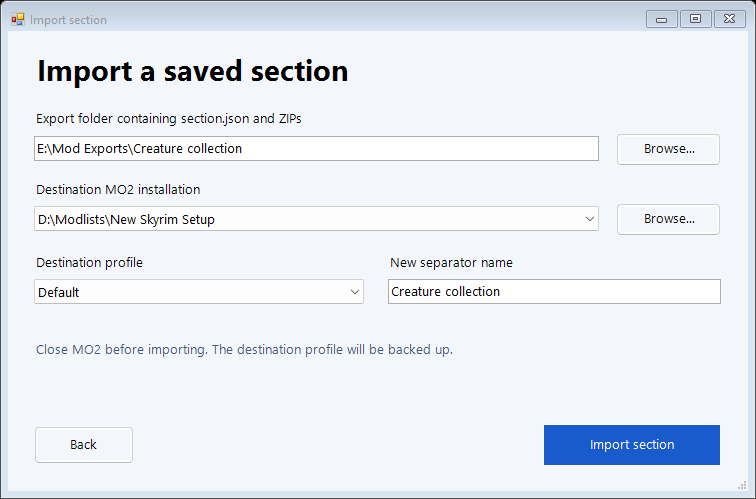
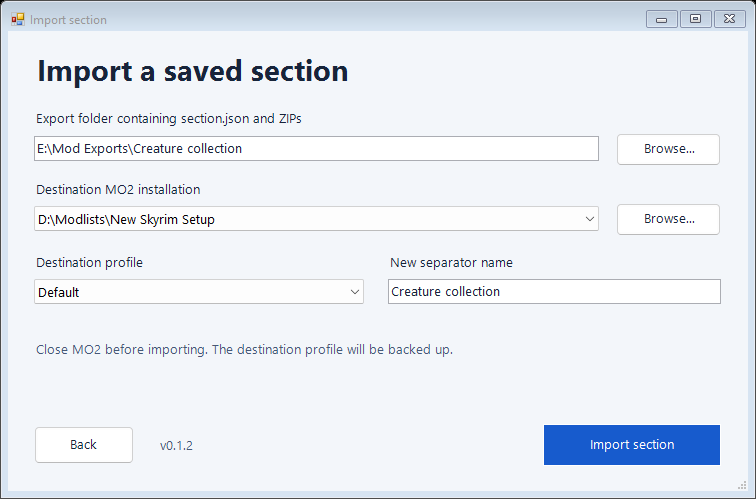
Refresh v0.1.2 tutorial screenshots and show export options

diff --git a/README.md b/README.md
@@ -44,6 +44,10 @@ Start the app and choose **Export section** or **Import section**.
 
 The guided interface supports light and dark modes. Export progress, average speed, and elapsed time are displayed locally.
 
+The export screen shows the source profile, separator, mod checklist, and export options. Choose **Individual ZIPs** or **Single merged ZIP**, then leave **Review dependencies before export** enabled or clear it to export directly.
+
+![Export screen with the mod checklist, archive format, and dependency review toggle](docs/mo2-export.png)
+
 ### Import
 
 1. Close Mod Organizer 2, then choose **Import section**.
